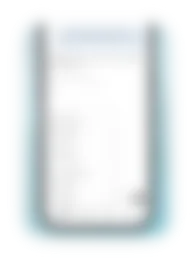
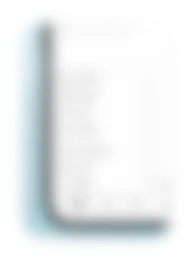
Attach Menu and Tab Bar: offset thumbnail crops
Both thumbnails zoom in on the open menu, offset like the other covers:
the phone's bottom-left corner in with the film's background beside and
below it, its right side running off the cover. Playing, the shot eases
out to the whole film (camera.ts: a cover with only a rest framing plays
at the full view). The full device is now centred like the others, as
the camera's maths expects. Blurred grid stills redone for both.

Claude-Session: https://claude.ai/code/session_01KWunyGjQtk3sCnGrUXUHPS

Changed region(s): [[0.342, 0.0615, 0.9016, 0.9231], [0.1554, 0.0923, 0.715, 0.8923]]

diff --git a/src/scripts/camera.ts b/src/scripts/camera.ts
@@ -57,7 +57,9 @@ export function mountCameras(root: ParentNode = document) {
       const framed = playing || !!rest;   // a rest framing keeps the camera on while idle
       on += ((framed ? 1 : 0) - on) * (1 - Math.exp(-dt * 3));
 
-      const [kx, ky, ks] = playing && keys.length ? sample(keys, video.currentTime) : rest ?? [0.5, 0.5, 1];
+      // A finished film (no keyframes, only a rest framing for its thumbnail)
+      // plays whole: the shot eases out to the full view.
+      const [kx, ky, ks] = playing ? (keys.length ? sample(keys, video.currentTime) : [0.5, 0.5, 1]) : rest ?? [0.5, 0.5, 1];
       // A light follow, so a jump (the loop, a seek) never snaps.
       // Scrubbed (the player's data-scrubbing), it snaps to each spot instead.
       const f = video.dataset.scrubbing !== undefined ? 1 : 1 - Math.exp(-dt * 5);   // smooths the moves without arriving late

diff --git a/src/content/work/tab-bar.md b/src/content/work/tab-bar.md
@@ -15,7 +15,8 @@ cover:
       webm: images/work/tab-bar-dark.webm
       mp4: images/work/tab-bar-dark.mp4
       poster: images/work/tab-bar-dark.jpg
-    start: 22.5   # thumbnail: the Projects tab's menu open over the tab bar
+    start: 22.5
+    rest: [0.4, 0.64, 1.4]   # thumbnail: in on the Projects tab's menu over the tab bar, the phone's bottom-left corner with yellow beside and below it
     device: full   # a finished film (phone, background, camera and touches all in it), edge to edge
 ---
 

diff --git a/src/content/work/attach-menu.md b/src/content/work/attach-menu.md
@@ -15,7 +15,8 @@ cover:
       webm: images/work/attach-menu-dark.webm
       mp4: images/work/attach-menu-dark.mp4
       poster: images/work/attach-menu-dark.jpg
-    start: 6   # thumbnail: the attach menu open
+    start: 6
+    rest: [0.37, 0.63, 1.35]   # thumbnail: in on the attach menu, the phone's bottom-left corner with blue beside and below it; its right side runs off the cover
     device: full   # a finished film (phone, background, camera and touches all in it), edge to edge
 ---
 
